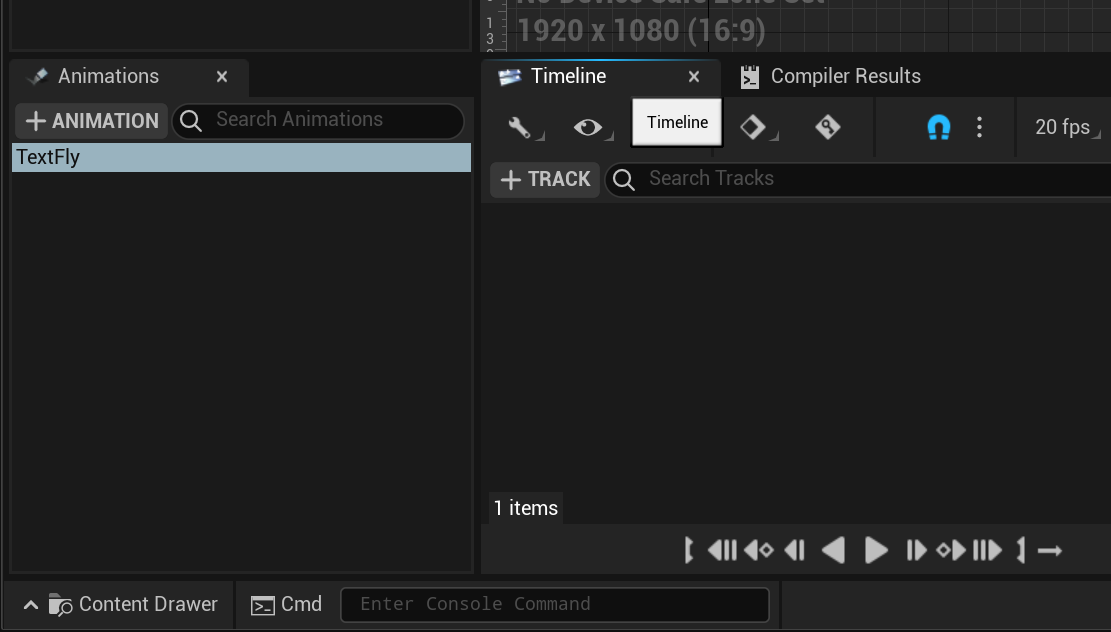
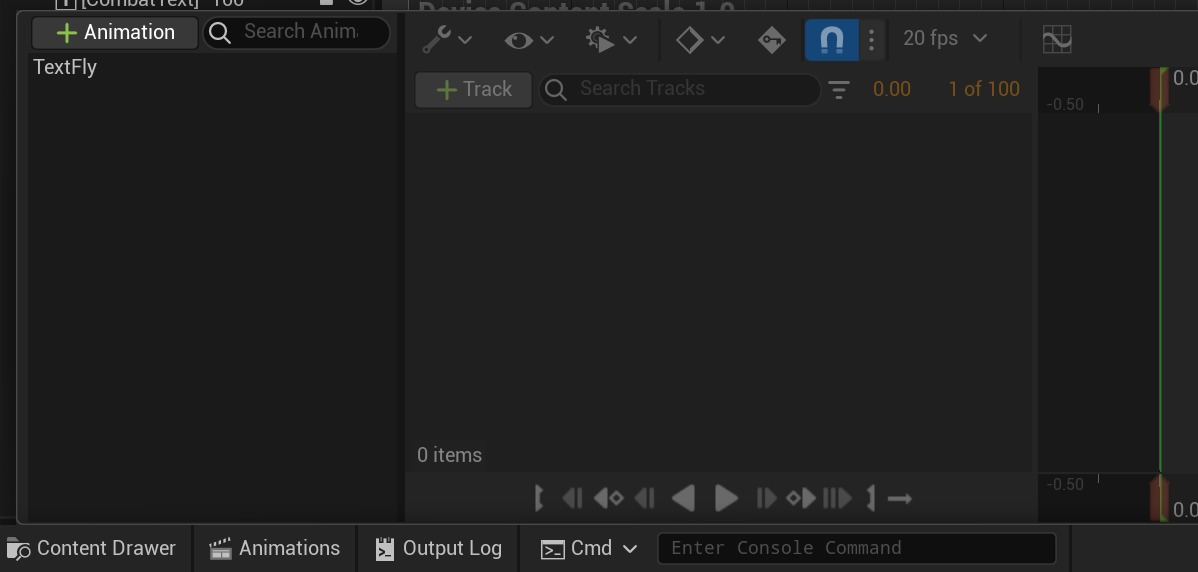
A6 (#6)
* init 6

* 6.2

* 6 fin

* Update 06-03.md

diff --git a/06-03.md b/06-03.md
@@ -1,0 +1,89 @@
+---
+title: Combat Text
+parent: Assignment 6
+grand_parent: Assignments
+has_children: false
+nav_order: 3
+---
+
+# Combat Text
+
+In this part, we'll add a widget component to the TopDownCharacter that displays the damage taken, and then flies up above the character as it disappears. When complete, it'll look like this:
+
+<video style="display:block; margin: 0 auto;" width="640" height="360" controls>
+  <source src="assets/CombatText.mp4" type="video/mp4">
+</video>
+
+## Creating the Basic CombatTextWidget
+
+First, create a `UserWidget` C++ subclass called `CombatTextWidget`. This needs to have a `BindWidget` for a text block, and also a public function called `ShowDamage` which takes in an integer for the amount of damage.
+
+For now, `ShowDamage` should:
+
+- Set the text block to green if the damage amount is negative, red if it's positive
+- Set the text to the absolute value of the integer value
+
+Then make a blueprint subclass of `CombatTextWidget` and setup the `BindWidget` text block in there. You'll want to middle anchor the text widget and set the render opacity default to 0 (so it's not visible).
+
+### Adding a WidgetComponent to TopDownCharacter
+
+Since we'll need to access the widget from code, we need to add the `UWidgetComponent` to TopDownCharacter in C++.
+
+- Add a `VisibleAnywhere, BlueprintReadOnly` `TObjectPtr` to a `UWidgetComponent` and call it `CombatTextWidget`
+- In the constructor, create this component with `CreateDefaultSubobject`
+- Call setup attachment on this component to attach it to the `RootComponent`
+- Call `SetWidgetSpace` on this component to change it to use screen space
+
+Then, when you take damage you can use the `CombatTextWidget->GetWidget()` to get the `UUserWidget` which it has. Then cast it to the `UCombatTextWidget` subclass you made earlier, and if the cast succeeds, you can call `ShowDamage` on it.
+
+Lastly, we need to tell the widget component which widget class to use. To do that, in the BP_TopDownCharacter blueprint (under TopDown/Blueprints), in the viewport select the widget component set the Widget Class to the blueprint you made.
+
+Now when you run the game, you should see the text following around the player and then once you take damage, you'll see a red 10 like this:
+
+![10 points of damage!](images/06/red10.png)
+
+## Adding an Animation
+
+In the blueprint editor, change your text block so it's "Render Opacity" is 0. This will make the text block invisible by default.
+
+Next, on the bottom bar of the widget editor, click Animations to bring up the animation bar and click the "+Animation" to create an animation called "TextFly":
+
+![Animation timeline](images/06/anim.png)
+
+Then click on TextFly and press the +Track button, selecting CombatText.
+
+The user interface for the animation timeline is quite similar to the interface for Sequencer.
+
+For the combat text track, you add a sub-track for "Render Opacity." Then make a keyframe at the start which with a render opacity of 1. This means when the animation starts, the text will be fully visible. Add another key frame at 0.75s and then at 1s. Make the 1s one have render opacity 0, which means from 0.75-1s it'll start fading out.
+
+If you play the animation, you should see that text become visible for 0.75s and then fade out.
+
+Next, add another sub track for the combat text that adjusts the transform. Place a keyframe for Transform>Translation>Y at the start which will also automatically make one at the end of the animation at 1.0s. At the 1.0s keyframe, set the Y translation to -300.
+
+Now when you play the animation you should see the text also move up. It'll look something like this:
+
+<video style="display:block; margin: 0 auto;" width="640" height="360" controls>
+  <source src="assets/WidgetAnim.mp4" type="video/mp4">
+</video>
+
+Now we need to hook up this animation in the C++ code for `CombatTextWidget`.
+
+To do this, we can use the `BindWidgetAnim` meta which is very similar to `BindWidget`, but for animations.
+
+First, add the following member variable:
+
+```c++
+UPROPERTY(Transient, meta = (BindWidgetAnim))
+TObjectPtr<class UWidgetAnimation> TextFly;
+```
+
+{: .note }
+You may notice that this the widget animation is also marked as `Transient`. This is kind of a weird case, where actually the `UWidgetAnimation` `UPROPERTY` isn't really how the animation is being saved in the blueprint. So it has to be `Transient` because it shouldn't be serialized. If you don't mark it `Transient`, the blueprint will refuse to compile.
+
+Then, in the C++ for `ShowDamage`, you just need to call `PlayAnimation` (which is a member function of `UUserWidget`), passing in `TextFly`.
+
+Back in the editor, compile and save your blueprint widget one last time.
+
+Now when you run, when taking damage you should see the combat text show up and scroll off the screen like in the video at the top of this page.
+
+Once this is done, you're ready to [submit](06-04.html).

diff --git a/06-01.md b/06-01.md
@@ -1,0 +1,44 @@
+---
+title: Game Over Menu
+parent: Assignment 6
+grand_parent: Assignments
+has_children: false
+nav_order: 1
+---
+
+# Game Over Menu
+
+In this part, you'll setup a menu that shows up when the player dies.
+
+## Basic Menu Setup
+
+First, replicate the menu as outlined in the lecture notes this week. This means you'll need to implement TopDownMenu and TopDownButton in C++, as well as the blueprint widgets.
+
+_Note_: You will need to manually add the "SlateCore" additional dependency to your .uproject as on Slide #66 of the UMG lecture notes.
+
+Make it so the game only adds the menu to the viewport once the player dies (so don't do it in OnPossess).
+
+## Changes to the Menu
+
+Now make the following changes to the menu:
+
+- Increase the font size of the button's text in the TopDownButton blueprint to 40
+- Change the first button in the menu to say "RESTART GAME" instead of "NEW GAME"
+- Make the "RESTART GAME" delegate in the blueprint do the following:
+  - Set the input mode back to Input Mode Game Only (you can do this on the player controller)
+  - Reload the current level by using "Get Current Level Name" and "Open Level (by Name)"
+- In the menu widget, add text near the top and centered that says "GAME OVER" in size 72 font
+- In the menu widget, add a "Background Blur" widget to the background with a blur strength of 5
+
+Now when you die, your game over menu should look roughly like this:
+
+![Game over menu](images/06/part1.png)
+
+Confirm that the options do the following:
+
+- Restart Game should reload the level with the player alive again and at the starting point, and you should be able to control the player again once it restarts
+- Load Game should just output the print text debug (like in the lecture notes)
+- Quit should end the PIE session
+
+With the game over menu in, you'll add mouse support to the menu in [part 2](06-02.html).
+

diff --git a/06-02.md b/06-02.md
@@ -1,0 +1,30 @@
+---
+title: Mouse Support
+parent: Assignment 6
+grand_parent: Assignments
+has_children: false
+nav_order: 2
+---
+
+# Mouse Support
+
+In this part, you'll add mouse support to the menu. The player should be able to select menu options by highlighting them with the mouse, and left click will activate the current menu option the mouse is hovering over (if the mouse is currently hovering over an option).
+
+This should only require editing TopDownMenu.h/cpp, you shouldn't need to change any other source files or any of the blueprints.
+
+This is actually not very much code at all, so I'm not going to tell you what to do exactly, but I'll give some hints:
+
+- You'll want to override `NativeOnMouseMove` and `NativeOnMouseButtonDown`
+- `FPointerEvent` has a way to get the screen space position from it
+- Given an arbitrary `UWidget`, you can use `GetCachedGeometry` to get the bounding extents/transform of the widget (as an `FGeometry`)
+- `FGeometry` has a very handy `IsUnderLocation` member function
+
+If this is implement properly, the player should be able to move the mouse to select options, and then left click on an option if one is highlighted. (Notably, if the mouse isn't anywhere near an option, the left click shouldn't do anything).
+
+If this works properly, it will look something like this:
+
+<video style="display:block; margin: 0 auto;" width="640" height="360" controls>
+  <source src="assets/MouseControl.mp4" type="video/mp4">
+</video>
+
+In the last part, you'll add "floating" [combat text](06-03.html).

diff --git a/06-04.md b/06-04.md
@@ -1,0 +1,33 @@
+---
+title: Submission Requirements
+parent: Assignment 6
+grand_parent: Assignments
+has_children: false
+nav_order: 4
+---
+
+# Submission Requirements
+
+For this assignment, put your files in the `06` folder on your Google Drive. You need to submit the following:
+
+1. One or more videos which demonstrate that:
+   1. When you take damage, the "flying" combat text shows the damage you take
+   2. When you die, the game over menu shows up
+   3. You can use the mouse to hover over and select different options in the menu
+   4. The "Restart Game" button reloads the level and you can move around the character after the restart
+   5. The "Quit Game" button will end the PIE session
+2. TopDownButton.h/cpp
+3. TopDownMenu.h/cpp
+4. CombatTextWidget.h/cpp
+
+## Grading Specification
+
+To receive a grade of B, you must have the following:
+
+1. The [basic menu setup](06-01.html#basic-menu-setup) (as in the lecture notes) is complete
+2. The [changes to the menu](06-01.html#changes-to-the-menu) are implemented, and both the Restart Game and Quit Game buttons work correctly
+3. [Mouse controls](06-02.html) allow you to highlight an option with the mouse and click to activate an option if the mouse is over it
+4. The "flying" [combat text](06-03.html) is implemented correctly
+
+To get an A, you must satisfy the above as well as write quality code. Keep in mind that we will be looking for adherence to the [Unreal Coding Standard](https://docs.unrealengine.com/5.0/en-US/epic-cplusplus-coding-standard-for-unreal-engine/).
+

diff --git a/06.md b/06.md
@@ -1,0 +1,16 @@
+---
+title: Assignment 6
+parent: Assignments
+has_children: true
+nav_order: 7
+---
+
+# Assignment 6 - UI
+
+Don't begin this assignment until you've gone through the Week 6 flipped classroom video.
+
+In this assignment, you will:
+
+1. Setup a game over menu that shows up when you die
+2. Add mouse support to the menu
+3. Use a widget component to add a "floating" combat text display whenever a character takes damage
